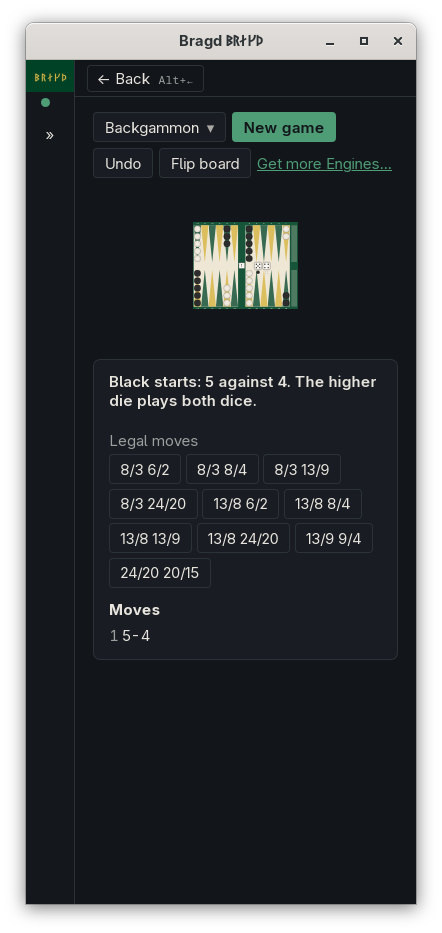
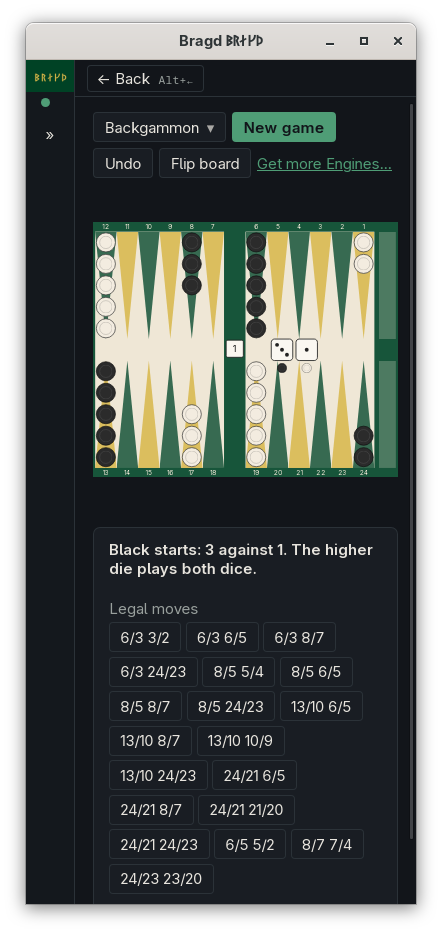
F1 lists only what concerns your Game families, backgammon's board fills a narrow window again, and a teaching position names its move as the move list writes it.

diff --git a/gui/src/Play.svelte b/gui/src/Play.svelte
@@ -6,7 +6,7 @@
   import * as api from "./api.js";
   import { t } from "./i18n.svelte.js";
   import Picker from "./Picker.svelte";
-  import { gates, groups, movesOf, movesTo, plainMoves } from "./board.js";
+  import { gates, groups, movesOf, movesTo, plainMoves, sideways as onSide } from "./board.js";
   import Board from "./Board.svelte";
   import UrDice from "./UrDice.svelte";
   import BackgammonBoard from "./BackgammonBoard.svelte";
@@ -70,7 +70,7 @@
   const aspect = $derived(!st ? 1 : family.id === "backgammon" ? 14.2 / 11.9 : (st.board.files + 0.16) / (st.board.ranks + 0.16));
   // A track four times longer than wide (Aseb) lies on its side on a narrow window, at most 70 %
   // of the window high, so its cells are big enough to hit.
-  const sideways = $derived(!!st && innerWidth <= 760 && family.race && st.board.files >= 4 * st.board.ranks);
+  const sideways = $derived(!!st && onSide(family, st.board, innerWidth));
   const fit = $derived(innerWidth > 760 && gameH ? `${Math.max(180, (gameH - trayH[0] - trayH[1] - 12) * aspect)}px` : null);
   /** A square, a piece dropped from hand, or a Seirawan piece to gate (with its square once
    * chosen). @type {{from?: string, drop?: string, gate?: string} | null} */

diff --git a/gui/src/board.test.js b/gui/src/board.test.js
@@ -1,6 +1,6 @@
 import { test } from "node:test";
 import assert from "node:assert/strict";
-import { place, movesOf, movesTo, plainMoves, point, gates, groups } from "./board.js";
+import { place, sideways, movesOf, movesTo, plainMoves, point, gates, groups } from "./board.js";
 
 test("a move's number keeps the moves after it on its line", () => {
   assert.deepEqual(groups(["1.", "", "2.", ""]), [[0, 1], [2, 3]]);
@@ -78,4 +78,13 @@ test("a tray piece chosen first narrows a move to its gating ones", () => {
   assert.deepEqual(movesOf(state, { gate: H }), []);
   assert.equal(gates(state, H), true);
   assert.equal(gates(state, "shogi-bP"), false);
+});
+
+test("only a grid race track lies on its side on a narrow window, never backgammon's board", () => {
+  const aseb = { files: 12, ranks: 3 };
+  assert.equal(sideways({ id: "ur", race: true }, aseb, 390), true);
+  assert.equal(sideways({ id: "ur", race: true }, aseb, 1100), false);
+  assert.equal(sideways({ id: "ur", race: true }, { files: 8, ranks: 3 }, 390), false);
+  assert.equal(sideways({ id: "backgammon", race: true }, { files: 26, ranks: 2 }, 390), false);
+  assert.equal(sideways({ id: "chess", race: false }, { files: 8, ranks: 2 }, 390), false);
 });

diff --git a/gui/src/board.js b/gui/src/board.js
@@ -8,6 +8,12 @@ export function place(/** @type {number} */ x, /** @type {number} */ y, /** @typ
   return flipped ? { col: files - 1 - x, row: y } : { col: x, row: ranks - 1 - y };
 }
 
+/** Whether a race Family's long track is drawn on its side: on a narrow window, and only on the
+ * grid board. Backgammon draws its own board, which keeps its width. */
+export function sideways(/** @type {{id: string, race: boolean}} */ family, /** @type {{files: number, ranks: number}} */ board, /** @type {number} */ width) {
+  return width <= 760 && family.race && family.id !== "backgammon" && board.files >= 4 * board.ranks;
+}
+
 /**
  * The moves a selection can make: from a square, or a piece dropped from hand. With a gate
  * (a Seirawan piece chosen in the tray), only the moves from its square that bring it in.

diff --git a/gui/src/Rules.svelte b/gui/src/Rules.svelte
@@ -29,6 +29,7 @@
 </script>
 
 <section class="rules">
+  <h1>{family.name}: {t("sidebar.rules")}</h1>
   {#if page}
     {#if page.positions.length}
       <h2>{t("rules.positions")}</h2>
@@ -44,8 +45,8 @@
               {/if}
             </div>
             <p>{l.position.text}</p>
-            {#if l.position.answer}
-              <p class="answer">{t("rules.answer", { move: l.position.answer })}</p>
+            {#if l.answer}
+              <p class="answer">{t("rules.answer", { move: l.answer })}</p>
             {/if}
           </article>
         {/each}

diff --git a/crates/bragd-games/src/positions.rs b/crates/bragd-games/src/positions.rs
@@ -329,7 +329,7 @@ pub const POSITIONS: &[Position] = &[
         variant: "shogi",
         key: "shogi.pawn-drop-that-may-not-mate",
         title: "The drop you may not make",
-        text: "Black — who moves first in shogi — holds a gold and a pawn, and every piece he has taken this game can be put back on the board as a move. The white king on 1a is already boxed: his own knight sits on 2a, and Black’s knights on 1d and 2d cover 1b and 2b between them. Dropping either piece on 1b is mate, and only one of the two is legal. **A pawn may not be dropped to give checkmate.** Uchifuzume is the strangest rule in the game and the only one that requires looking a move ahead, so P*1b is simply not in the list of moves — while P*1c and every other pawn drop down that same file is, and so is P*2b right beside it. You may drop a pawn to give check. You may push a pawn to give mate. You may not drop one to give mate. So the move is G*1b, defended by the knight on 2d and covering 2a and 2b as well as 1a. Learn the rule before you need it: it arrives exactly when you are counting on a pawn to finish, and nothing on the board will warn you.",
+        text: "Black — who moves first in shogi — holds a gold and a pawn, and every piece he has taken this game can be put back on the board as a move. The white king on 1a is already boxed: his own knight sits on 2a, and Black’s knights on 1d and 2d cover 1b and 2b between them. Dropping either piece on 1b is mate, and only one of the two is legal. A pawn may not be dropped to give checkmate. Uchifuzume is the strangest rule in the game and the only one that requires looking a move ahead, so P*1b is simply not in the list of moves — while P*1c and every other pawn drop down that same file is, and so is P*2b right beside it. You may drop a pawn to give check. You may push a pawn to give mate. You may not drop one to give mate. So the move is G*1b, defended by the knight on 2d and covering 2a and 2b as well as 1a. Learn the rule before you need it: it arrives exactly when you are counting on a pawn to finish, and nothing on the board will warn you.",
         diagram: "l6nk/9/2p1p4/7NN/9/9/2P1P4/9/4K4 b GP 1",
         line: &[],
         arrangement: None,
@@ -450,6 +450,8 @@ mod tests {
         for position in POSITIONS {
             assert!(crate::variant(position.variant).is_ok(), "{}", position.key);
             assert!(position.key.starts_with(position.variant), "{}", position.key);
+            // The text is shown as it is, not as Markdown.
+            assert!(!position.text.contains("**"), "{}: Markdown in the text", position.key);
         }
     }
 

diff --git a/crates/bragd-core/src/features.rs b/crates/bragd-core/src/features.rs
@@ -147,12 +147,14 @@ pub fn fold(s: &str) -> String {
         .collect()
 }
 
-/// The features as F1 lists them, filtered by `query`: each whose title, line, questions or
-/// answers hold every word of it, case and accents aside.
-pub fn list(query: &str) -> Vec<Entry> {
+/// The features as F1 lists them to the user of `cfg` (none of a Family that is off), filtered
+/// by `query`: each whose title, line, questions or answers hold every word of it, case and
+/// accents aside.
+pub fn list(cfg: &crate::config::Config, query: &str) -> Vec<Entry> {
     let words: Vec<String> = fold(query).split_whitespace().map(String::from).collect();
     FEATURES
         .iter()
+        .filter(|f| concerns(cfg, f.families))
         .map(entry)
         .filter(|e| {
             let hay = format!(
@@ -185,16 +187,34 @@ mod tests {
                 );
             }
         }
-        let all = list("");
+        let cfg = crate::config::Config::default();
+        let all = list(&cfg, "");
         assert_eq!(all.len(), FEATURES.len());
         assert!(all.iter().all(|e| e.qa.len() >= 2 && !e.title.is_empty()));
         assert!(find("update").is_some());
-        assert!(list("zzzz-nothing").is_empty());
-        assert_eq!(list("DUPLICATE").len(), list("duplicate").len());
+        assert!(list(&cfg, "zzzz-nothing").is_empty());
+        assert_eq!(list(&cfg, "DUPLICATE").len(), list(&cfg, "duplicate").len());
         assert!(
-            !list("dúplicaté").is_empty(),
+            !list(&cfg, "dúplicaté").is_empty(),
             "accents in the query are ignored"
         );
+    }
+
+    /// F1 leaves out what concerns only Families that are off: with only go on, no Ur, Lichess
+    /// or Tablebases, but go's OGS and what concerns everyone.
+    #[test]
+    fn f1_lists_only_features_of_families_that_are_on() {
+        let only_go = crate::config::Config::parse(
+            "[families.family]\nchess = false\nxiangqi = false\nshogi = false\ndraughts = false\ntafl = false\nbackgammon = false\nur = false\nsenet = false\n",
+        )
+        .unwrap();
+        let ids: Vec<&str> = list(&only_go, "").iter().map(|e| e.id).collect();
+        for gone in ["ur", "ur_solved", "online", "lishogi", "tablebases", "forced"] {
+            assert!(!ids.contains(&gone), "{gone} shows with only go on");
+        }
+        for kept in ["ogs", "friends", "annotations", "play", "update"] {
+            assert!(ids.contains(&kept), "{kept} is missing with go on");
+        }
     }
 
     /// Every Family a Feature, a tour card (through its Feature) or a changelog row names is

diff --git a/gui/src-tauri/src/rules.rs b/gui/src-tauri/src/rules.rs
@@ -36,6 +36,8 @@ pub struct Page {
 pub struct Lesson {
     pub position: Position,
     pub state: State,
+    /// The move the text names, written as the Family's move list writes it (`Rd8`, not `d1d8`).
+    pub answer: Option<String>,
 }
 
 fn html(markdown: &str) -> String {
@@ -54,7 +56,13 @@ pub fn page(family: Family) -> Page {
             .filter_map(|p| {
                 let (initial, line) = p.start();
                 let state = bragd_games::replay(p.variant, initial, line).ok()?;
-                Some(Lesson { position: *p, state })
+                let answer = p.answer.map(|a| {
+                    bragd_games::apply(p.variant, initial, line, a)
+                        .ok()
+                        .and_then(|after| after.written.last().cloned())
+                        .unwrap_or_else(|| a.to_string())
+                });
+                Some(Lesson { position: *p, state, answer })
             })
             .collect(),
     }
@@ -75,5 +83,13 @@ mod tests {
                 .count();
             assert_eq!(page.positions.len(), want, "{family:?}: a teaching position does not play");
         }
+    }
+
+    /// The answer reads as the move list writes it, not in the engine's wire form.
+    #[test]
+    fn a_lesson_names_its_move_as_the_move_list_writes_it() {
+        let chess = page(Family::Chess);
+        let mate = chess.positions.iter().find(|l| l.position.answer == Some("d1d8")).expect("the back-rank mate");
+        assert_eq!(mate.answer.as_deref(), Some("Rd8#"));
     }
 }

diff --git a/docs/screenshots/ui-check.py b/docs/screenshots/ui-check.py
@@ -89,6 +89,14 @@ BOARD = r"""(() => {
   return r.bottom <= innerHeight + 1 ? '' : `the board ends at ${Math.round(r.bottom)} px, below the window (${innerHeight} px)`;
 })()"""
 
+# On a narrow window the board takes the page's width (a board drawn small fits, but cannot be played).
+NARROW_BOARD = r"""(() => {
+  const b = document.querySelector('.board-side svg.board'), p = document.querySelector('main.page');
+  if (!b || !p) return 'no board';
+  const w = b.getBoundingClientRect().width, room = p.clientWidth;
+  return w >= 0.7 * room ? '' : `the board is ${Math.round(w)} px wide on a page ${room} px wide`;
+})()"""
+
 
 def load_axe(d, source):
     """axe-core into the app's page. The inspector drops a message that large, so it comes in
@@ -217,6 +225,9 @@ def look(d, name, w, h, shots):
     found += run_axe(d)
     if h <= 700 and name.startswith("play-"):
         if b := js(d, f"return {BOARD}"):
+            found.append(b)
+    if w < 760 and name.startswith("play-"):
+        if b := js(d, f"return {NARROW_BOARD}"):
             found.append(b)
     print(f"{name} at {w}×{h}: {'ok' if not found else f'{len(found)} faults'}", flush=True)
     return [f"{name} at {w}×{h}: {x}" for x in found]

diff --git a/gui/src-tauri/src/help.rs b/gui/src-tauri/src/help.rs
@@ -10,10 +10,10 @@ use tauri_plugin_opener::OpenerExt;
 
 use crate::Ctx;
 
-/// F1 → Features, filtered by `query` (case and accents aside).
+/// F1 → Features of the Families that are on, filtered by `query` (case and accents aside).
 #[tauri::command]
-pub fn feature_list(query: String) -> Vec<features::Entry> {
-    features::list(&query)
+pub fn feature_list(query: String, ctx: tauri::State<'_, Ctx>) -> Vec<features::Entry> {
+    features::list(&ctx.cfg(), &query)
 }
 
 /// The hints shown at start, a few times each (`notices::hint_due`).

diff --git a/docs/plans/ux-review-1.0.0.md b/docs/plans/ux-review-1.0.0.md
@@ -1,0 +1,39 @@
+# UX review before 1.0.0, 3 November 2026
+
+A review of master at `ebe6efa` as a user sees it. The release build ran in the screenshot sandbox: `ui-check.py --shots` over every main screen at 390 × 844, 1100 × 760 and 1100 × 700; `pages.py boards` for every Game family in every Board theme; and a review script with *Only chess*, *Only go* and a first start that picks *Only go* in the install wizard. Every picture was read. The judgement is against CLAUDE.md (*Nothing hidden*, *Settings decide what shows*, *Texts in every language*, *Nothing leaves the machine unless the user asks*), the glossary's words, clear errors, clicks per flow, keyboard reach and contrast.
+
+The UI check found no fault: no text cut off, no page wider than its window, no axe-core contrast, label or focus fault, and every board fits a 700 px window. The faults below are the ones it cannot see.
+
+Severity: **H** high, **M** medium, **L** low.
+
+## Findings, most severe first
+
+| Id | Sev | Where | What a user meets | Status |
+|---|---|---|---|---|
+| U1 | H | `gui/src/Play.svelte` (`sideways`) | On a window 760 px wide or less, the backgammon board is drawn about 100 px wide in the middle of the page. The rule that lays a long race track on its side (for Aseb) also caught backgammon, whose own board does not turn. The committed `play-backgammon-390.png` showed it. | Fixed here: `sideways()` in `board.js`, tested; the UI check now fails a Play board narrower than 70% of a narrow page. |
+| U2 | H | `Board.svelte`, `BackgammonBoard.svelte` | No board can be played from the keyboard: every square has `tabindex="-1"` and there are no arrow keys. | #300 |
+| U3 | M | `crates/bragd-core/src/features.rs` | F1 → Features listed every feature to everyone. With only go on, it offered *Play on Lichess*, *Play on Lishogi*, *Tablebases*, *Ur rule sets* and *Ur solved*. The Features already name their Families, which What's new and the Tips used. | Fixed here: `features::list` takes the Config; test added. |
+| U4 | M | `tablebases.online` | Chess positions the local tables do not cover go to the Lichess tablebase API by default. CLAUDE.md names the update check as the only thing that leaves unasked. | #306 (a decision) |
+| U5 | M | What's new, F1, Settings → Online | *Play with Friends*, *Chat with Bragd players* and *Calls with Friends* are announced, but the Bragd server address is empty until the server is up, so the page is hidden and nobody can reach them. | #307 |
+| U6 | M | `crates/bragd-games/src/positions.rs` | The teaching positions on every Rules page are English in every language. | #302 |
+| U7 | M | `gui/src/Rules.svelte` | A lesson about a drop (*The drop you may not make*) does not show the pieces in hand it talks about. | #303 |
+| U8 | M | Play | New game, Undo, Flip board, Throw and Pass have no key, and none is shown in F1. | #301 |
+| U9 | L | `gui/src-tauri/src/rules.rs` | A lesson named its move in the engine's wire form: *The move: d1d8* under a text that says *Rd8*. | Fixed here: the move list's writing (`Rd8#`), from the replayed Game; test added. |
+| U10 | L | `positions.rs` | The shogi lesson showed raw Markdown, `**A pawn may not be dropped to give checkmate.**`. | Fixed here; a test refuses `**` in a lesson. |
+| U11 | L | `gui/src/Rules.svelte` | The Rules page had no title; with the sidebar folded at 390 px it did not say which Family it was. | Fixed here: *Chess: Rules*, like *Chess: Engines*. |
+| U12 | L | `gui/src/Play.svelte` (`fit`) | Ur and senet boards stay about a third of the room at 1100 px wide. | #304 |
+| U13 | L | Sidebar | Each Family opened stays open, so Clubs, Settings, Help and What's new scroll out of a 760 px window after a few Families. | #305 |
+| U14 | L | Chess → Databases → Sources | Five Sources are listed with *this version of Bragd cannot fetch it yet*. | #308 |
+| U15 | L | `gui/src-tauri/src/helper_link.rs` | A Helper that cannot start shows *No such file or directory (os error 2)*, naming neither the program nor what to do. | #309 |
+| U16 | L | Chess → Engines at 390 px | Variant names wrap mid-name (*Go* / *13×13*). | Left: readable, and the column cannot be wider at 390 px. |
+| U17 | L | Docs | `docs/getting-started/help.md` listed 16 of the 35 F1 entries. | Fixed here: the table lists them all. |
+
+Play on OGS at the end of the wizard's Online step for an *Only go* user says sign-in cannot start yet; that is #235.
+
+## Checked and clean
+
+- Every Family's board in each of the four Board themes (Racing green, Slate, Walnut, Match theme): squares, points and lines in the right colours, draughts on the dark squares, gote's shogi pieces turned, xiangqi's palace and river, tafl's throne and corners, the Ur rosettes and senet's marked houses.
+- With *Only chess* or *Only go*: the sidebar lists that Family's items alone, New game, Settings → Online, the wizard's Engines, Knowledge and Online steps, What's new and Clubs' rating lists show only what concerns it.
+- Settings → Game families keeps every Family's switch, so a Family turned off can be turned back on; its Variants show dimmed.
+- Wording follows the glossary: Game family, Variant, Library, Source, Slice, Helper, Engine, Bot, Board theme.
+- Errors for missing Engines say what is missing and where to get it.

diff --git a/docs/getting-started/help.md b/docs/getting-started/help.md
@@ -2,7 +2,7 @@
 
 # Help (F1) and notices
 
-**F1**, or *Help* in the sidebar, lists every feature: what it does and the questions people ask, with *Show me* opening its page in these docs. The filter finds every word you type, whatever its case or accents: `grunfeld` finds *Grünfeld*.
+**F1**, or *Help* in the sidebar, lists every feature: what it does and the questions people ask, with *Show me* opening its page in these docs. A feature of only Game families you turned off is left out, as in What's new and the Tips. The filter finds every word you type, whatever its case or accents: `grunfeld` finds *Grünfeld*.
 
 Notices and hints show in a small area in the bottom corner of the window, one at a time: notices first, then hints, then a Tip. Closing one shows the next. A notice (a mistake in `config.toml`, a newer version) shows until you close it. A hint shows on three starts, then no more; one hint comes at a start, and the next one only after you close it.
 
@@ -22,18 +22,37 @@ The F1 entries and the pages *Show me* opens:
 |---|---|---|
 | `wizard` | Install wizard and What's new | [The install wizard](first-start.md) |
 | `families` | Game families | [Game families and Variants](game-families.md) |
+| `back` | Back | [Going back](navigation.md) |
+| `tips` | Tips | [Tips](tips.md) |
 | `play` | Play | [Playing against yourself](../play/against-yourself.md) |
 | `ur` | Ur rule sets and pyramid dice | [Ur](../play/ur.md) |
+| `ur_solved` | Ur solved | [Ur](../play/ur.md) |
 | `forced` | Forced moves play by themselves | [Playing against yourself](../play/against-yourself.md#forced-moves) |
+| `online` | Play on Lichess | [Playing online](../online/playing-online.md) |
+| `lishogi` | Play on Lishogi | [Playing on Lishogi](../online/lishogi.md) |
+| `ogs` | Play on OGS | [Playing on OGS](../online/ogs.md) |
+| `friends` | Play with Friends | [Play with Friends](../online/play-with-friends.md) |
+| `chat` | Chat with Bragd players | [Play with Friends](../online/play-with-friends.md) |
+| `calls` | Calls with Friends | [Play with Friends](../online/play-with-friends.md) |
 | `databases` | Databases | [Foreign databases](../knowledge/foreign-databases.md) |
 | `players` | Player summary | [Player summary](../knowledge/players.md) |
 | `parquet` | Export to Parquet | [Export to Parquet](../knowledge/parquet-export.md) |
 | `disk` | Disk watch | [Disk watch](../knowledge/disk-watch.md) |
+| `positions` | Position store | [Position store](../knowledge/position-store.md) |
+| `model` | Language model | [Language model](../knowledge/language-model.md) |
+| `peers` | Peers | [Pairing your machines](../peers/peers.md) |
+| `sharing` | Sharing between Peers | [Sharing between Peers](../peers/sharing.md) |
 | `helper` | The Helper | [The Helper](../knowledge/helper.md) |
 | `engines` | Engines | [The Engines page](../engines/engines.md) |
 | `analyse` | Analyse | [Analyse](../engines/analyse.md) |
+| `annotations` | Annotations | [Game review](../engines/review.md) |
+| `commentary` | Commentary | [Commentary](../engines/commentary.md) |
 | `matches` | Engine matches | [Engine matches](../engines/matches.md) |
 | `tablebases` | Tablebases | [Tablebases](../engines/tablebases.md) |
+| `background` | Background analysis | [Background analysis](../engines/background-analysis.md) |
+| `clubs` | Clubs | [Clubs](../clubs/clubs.md) |
+| `tournaments` | Tournaments | [Tournaments](../clubs/tournaments.md) |
+| `leagues` | Team Leagues | [Team Leagues](../clubs/leagues.md) |
 | `themes` | Themes | [Themes](../look/themes.md) |
 | `update` | Update checks | [Privacy](../reference/privacy.md) |
 

diff --git a/changelog.d/ux-review-100.md b/changelog.d/ux-review-100.md
@@ -1,0 +1,1 @@
+| **F1 lists only what concerns your Game families, and backgammon's board fills a narrow window again.** F1 → Features leaves out a feature of only Families you turned off, as What's new and the Tips do. On a window 760 px wide or less the backgammon board takes the page's width instead of lying small in the middle. A teaching position on the Rules page names its move as the move list writes it (`Rd8#`, not `d1d8`), and the Rules page is titled with its Family. | [Help (F1)](getting-started/help.md#how-to-reach-it) |
